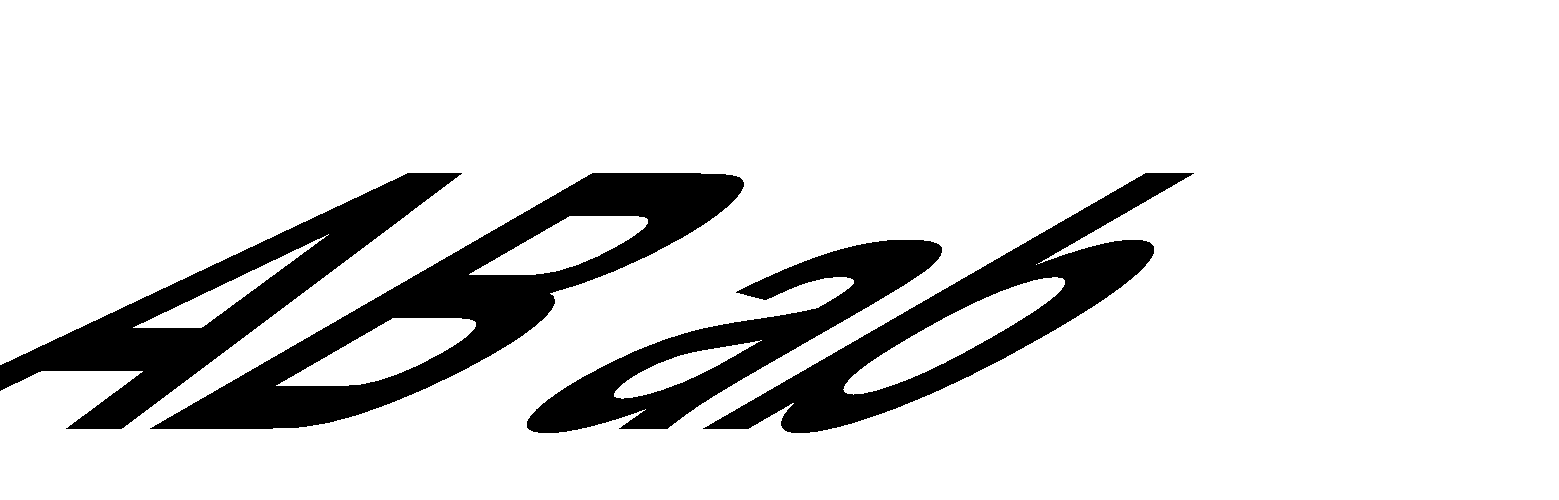
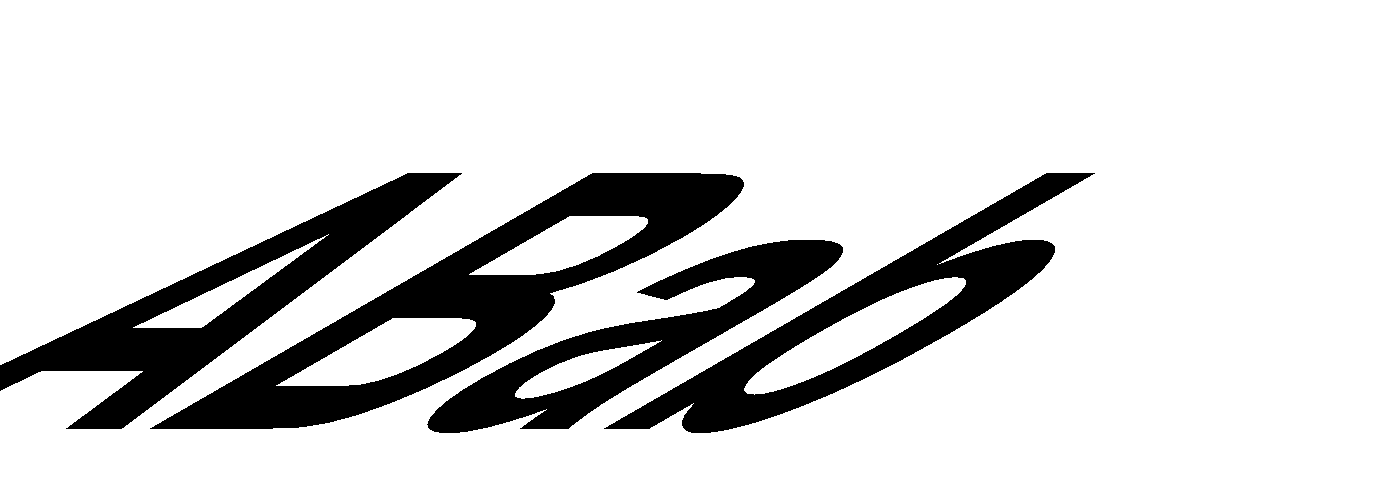
it's not good, but I need to stop for the night
I need to change the string back to "AB ab"

Changed region(s): [[0.0309, 0.33, 0.5869, 0.87], [0.6178, 0.33, 0.8032, 0.75], [0.5251, 0.48, 0.556, 0.51]]

diff --git a/Parametric_fonts_experiments/main.py b/Parametric_fonts_experiments/main.py
@@ -12,9 +12,14 @@ Parameters:
 # Default values: weight400, slant0, width0
 generator = SVGGenerator()
 output_folder = "generated_svgs"  # Define the folder to store SVG files
+output_path = generator.generate(weight_value=1000, slant_value=0, width_value=0)
+
+print(f"SVG file created at: {output_path}")
+
 output_path = generator.generate(weight_value=1000, slant_value=60, width_value=0)
 
 print(f"SVG file created at: {output_path}")
+
 
 output_path = generator.generate(weight_value=1000, slant_value=-60, width_value=0)
 

diff --git a/Parametric_fonts_experiments/create_svg.py b/Parametric_fonts_experiments/create_svg.py
@@ -28,7 +28,7 @@ class SVGGenerator:
 
         return adjusted_width, extra_left, extra_right
 
-    def generate(self, weight_value=400, slant_value=0, width_value=0, text="AB ab"):
+    def generate(self, weight_value=400, slant_value=0, width_value=0, text="ABab"):
         """
         Generates an SVG with the given parameters and text, dynamically adjusting the canvas size.
 
